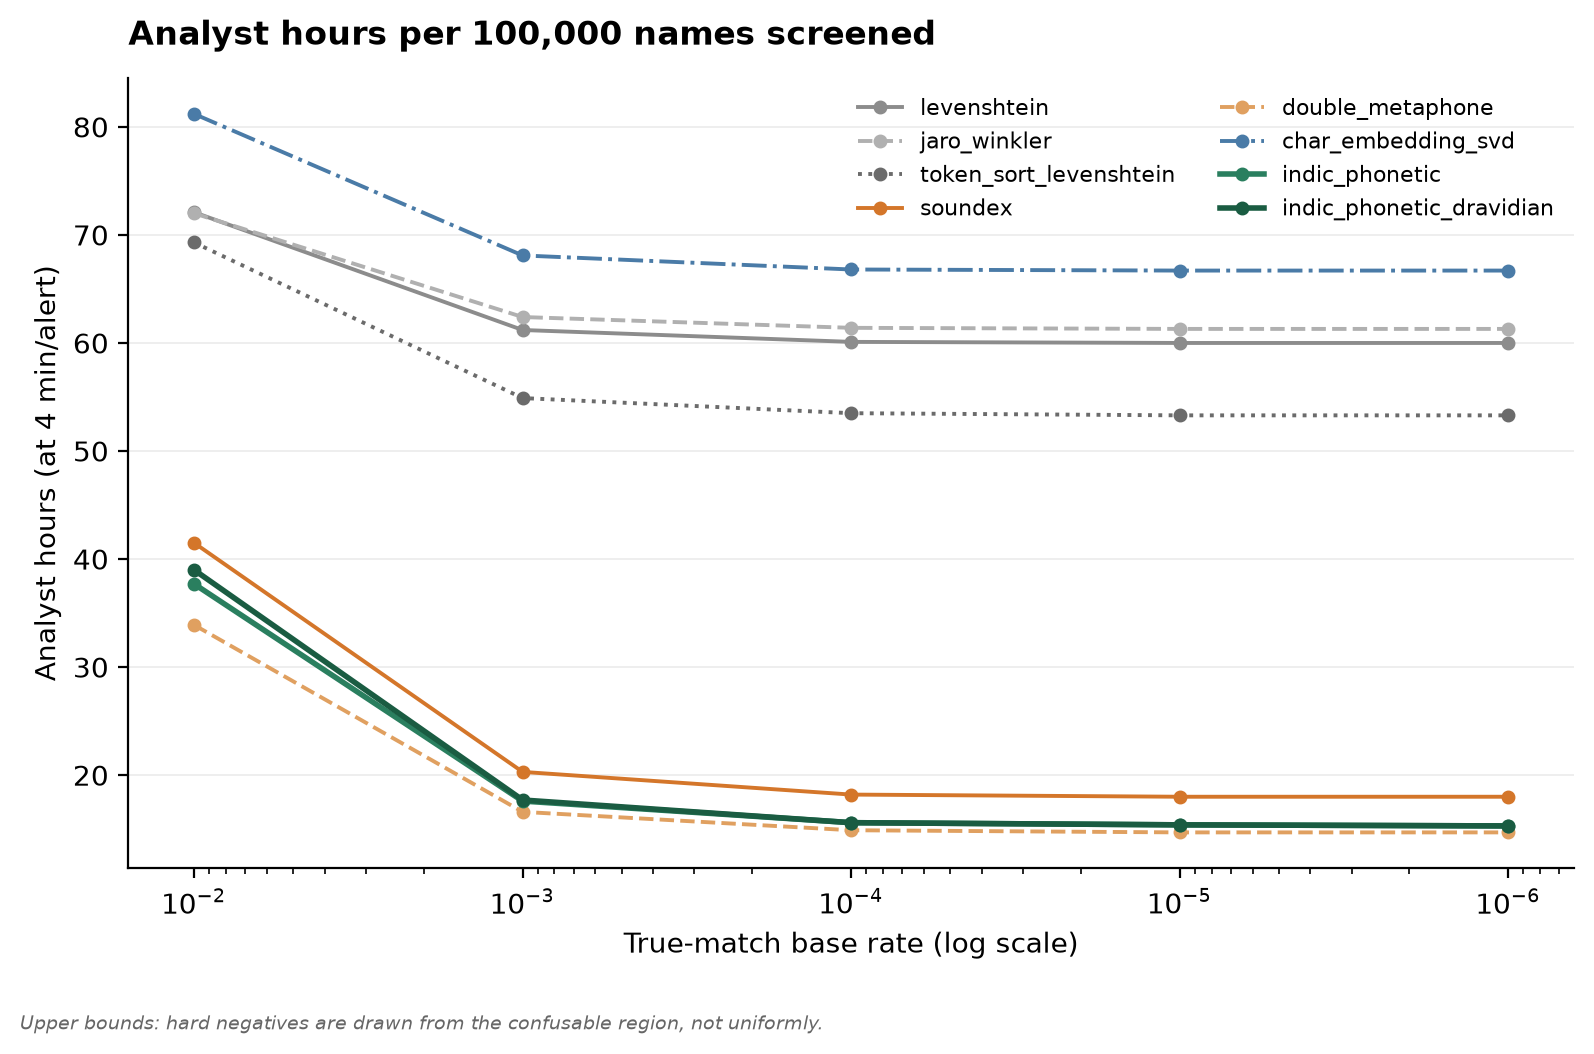
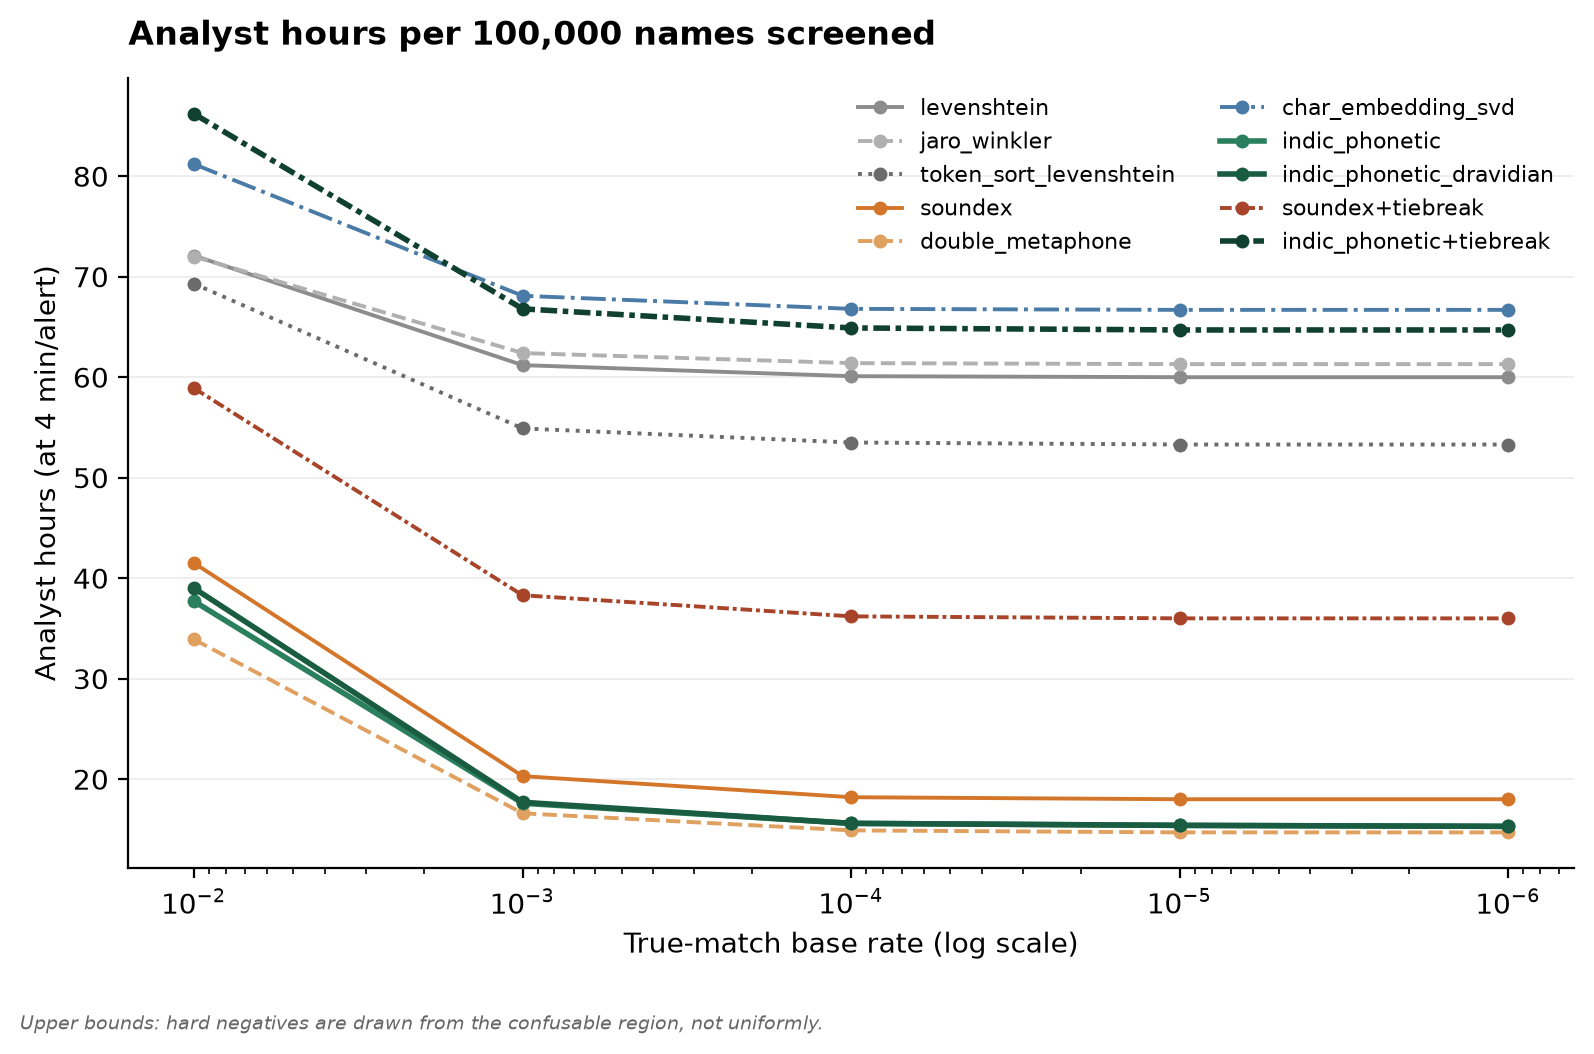
Sync staged indic-name-bench: figures cover both experiments
Adds score_granularity.png and alias_coverage.png, and plots the two +tiebreak
series in the existing three figures. Six figures total, all reproducible from
reports/results.json via benchmarks/make_figures.py.

Claude-Session: https://claude.ai/code/session_01KG3azS3CrJKJjqtgrzj2NN

diff --git a/benchmarks/make_figures.py b/benchmarks/make_figures.py
@@ -26,6 +26,8 @@ FEATURED = [
     "char_embedding_svd",
     "indic_phonetic",
     "indic_phonetic_dravidian",
+    "soundex+tiebreak",
+    "indic_phonetic+tiebreak",
 ]
 
 STYLE = {
@@ -37,6 +39,8 @@ STYLE = {
     "char_embedding_svd": ("#4a7ba7", "-."),
     "indic_phonetic": ("#2a7f5f", "-"),
     "indic_phonetic_dravidian": ("#1a5c42", "-"),
+    "soundex+tiebreak": ("#a8442a", (0, (3, 1, 1, 1))),
+    "indic_phonetic+tiebreak": ("#0f4030", (0, (3, 1, 1, 1))),
 }
 
 FAMILY_ORDER = [
@@ -99,7 +103,7 @@ def figure_degradation(results: dict) -> None:
 def figure_per_family(results: dict) -> None:
     data = results["per_family_recall_at_1pct_fpr"]
     fig, ax = plt.subplots(figsize=(11, 5), dpi=200)
-    width = 0.1
+    width = 0.08
     for i, matcher in enumerate(FEATURED):
         if matcher not in data:
             continue
@@ -202,6 +206,118 @@ def figure_fairness(results: dict) -> None:
     plt.close(fig)
 
 
+def figure_granularity(results: dict) -> None:
+    """Recall at both budgets, base vs tie-broken.
+
+    The paired-bar form is deliberate: the story is that the tight-budget bar
+    goes from zero to something while the loose-budget bar barely moves.
+    """
+    rows = results.get("granularity", {}).get("rows", [])
+    if not rows:
+        return
+
+    bases = [r for r in rows if r["variant"] == "base"]
+    labels = [r["matcher"] for r in bases]
+    if not labels:
+        return
+
+    fig, (ax_tight, ax_loose) = plt.subplots(1, 2, figsize=(11, 4.5), dpi=200)
+    width = 0.35
+    positions = list(range(len(labels)))
+
+    for ax, key, title, budget in (
+        (ax_tight, "recall_at_0.1pct_fpr", "Recall at 0.1% FPR (tight budget)", "0.1%"),
+        (ax_loose, "recall_at_1pct_fpr", "Recall at 1% FPR (loose budget)", "1%"),
+    ):
+        base_values, tie_values = [], []
+        for label in labels:
+            base_values.append(
+                next(r[key] for r in rows if r["matcher"] == label and r["variant"] == "base")
+            )
+            tie_values.append(
+                next(
+                    r[key]
+                    for r in rows
+                    if r["matcher"].startswith(label) and r["variant"] == "tie_broken"
+                )
+            )
+        ax.bar([p - width / 2 for p in positions], base_values, width,
+               label="as shipped", color="#b0b0b0")
+        ax.bar([p + width / 2 for p in positions], tie_values, width,
+               label="+ tie-breaker", color="#2a7f5f")
+        for p, value in zip(positions, base_values, strict=True):
+            ax.annotate(f"{value:.3f}", (p - width / 2, value), ha="center",
+                        va="bottom", fontsize=8, xytext=(0, 2),
+                        textcoords="offset points", color="#555555")
+        for p, value in zip(positions, tie_values, strict=True):
+            ax.annotate(f"{value:.3f}", (p + width / 2, value), ha="center",
+                        va="bottom", fontsize=8, fontweight="bold", xytext=(0, 2),
+                        textcoords="offset points", color="#1a5c42")
+        setup(ax, title, "", "Recall")
+        ax.set_xticks(positions)
+        ax.set_xticklabels(labels, fontsize=9)
+        # Headroom so the legend clears the tallest bar and its label.
+        ax.set_ylim(0, max(base_values + tie_values) * 1.35)
+        ax.legend(frameon=False, fontsize=8, loc="upper left")
+
+    fig.suptitle(
+        "Score granularity, not phonology, causes zero recall at a tight budget",
+        fontsize=13, fontweight="bold", x=0.02, ha="left",
+    )
+    fig.text(
+        0.02, -0.03,
+        "Tie-breaker is Jaro-Winkler blended at weight 0.15. AUC-PR rises in both cases; "
+        "the phonology is unchanged.",
+        fontsize=7, style="italic", color="#666666",
+    )
+    fig.tight_layout()
+    fig.savefig(FIGURES / "score_granularity.png", bbox_inches="tight")
+    plt.close(fig)
+
+
+def figure_alias_coverage(results: dict) -> None:
+    """Bengali anglicisation recall against alias-table coverage."""
+    data = results.get("alias_coverage", {}).get("recall_at_1pct_fpr", {})
+    if not data:
+        return
+
+    order = [
+        ("indic_phonetic", "no alias table", "#b0b0b0"),
+        ("indic_phonetic+alias_half", "41% class coverage", "#4a9070"),
+        ("indic_phonetic+alias_oracle", "full table\n(UPPER BOUND)", "#c1442e"),
+    ]
+    families = ["bengali_anglicisation", "arabic_persian", "transliteration"]
+    label = {
+        "bengali_anglicisation": "Bengali\nanglicisation",
+        "arabic_persian": "Arabic/Persian",
+        "transliteration": "Transliteration",
+    }
+
+    fig, ax = plt.subplots(figsize=(8.5, 5), dpi=200)
+    width = 0.26
+    for i, (key, legend, colour) in enumerate(order):
+        if key not in data:
+            continue
+        values = [data[key].get(f, 0.0) for f in families]
+        ax.bar([x + i * width for x in range(len(families))], values, width,
+               label=legend, color=colour)
+
+    setup(ax, "What an alias table is worth", "", "Recall at 1% false-positive rate")
+    ax.set_xticks([x + width for x in range(len(families))])
+    ax.set_xticklabels([label[f] for f in families], fontsize=9)
+    ax.legend(frameon=False, fontsize=8)
+    fig.text(
+        0.01, -0.05,
+        "The full table is the one the corpus was generated from, so it is an upper bound, "
+        "not a result.\nCoverage buys recall roughly linearly and nothing transfers to "
+        "unlisted variants.",
+        fontsize=7, style="italic", color="#666666",
+    )
+    fig.tight_layout()
+    fig.savefig(FIGURES / "alias_coverage.png", bbox_inches="tight")
+    plt.close(fig)
+
+
 def main() -> int:
     path = ROOT / "reports" / "results.json"
     if not path.exists():
@@ -214,6 +330,8 @@ def main() -> int:
     figure_per_family(results)
     figure_alert_volume(results)
     figure_fairness(results)
+    figure_granularity(results)
+    figure_alias_coverage(results)
     for figure in sorted(FIGURES.glob("*.png")):
         print(f"wrote {figure.relative_to(ROOT)}")
     return 0

diff --git a/README.md b/README.md
@@ -133,6 +133,7 @@ citing this.
 | --- | --- |
 | ![Degradation curve](reports/figures/degradation_curve.png) | ![Per-family breakdown](reports/figures/per_family_breakdown.png) |
 | ![Alert volume](reports/figures/alert_volume.png) | ![Fairness by origin](reports/figures/fairness_by_origin.png) |
+| ![Score granularity](reports/figures/score_granularity.png) | ![Alias coverage](reports/figures/alias_coverage.png) |
 
 ---
 
